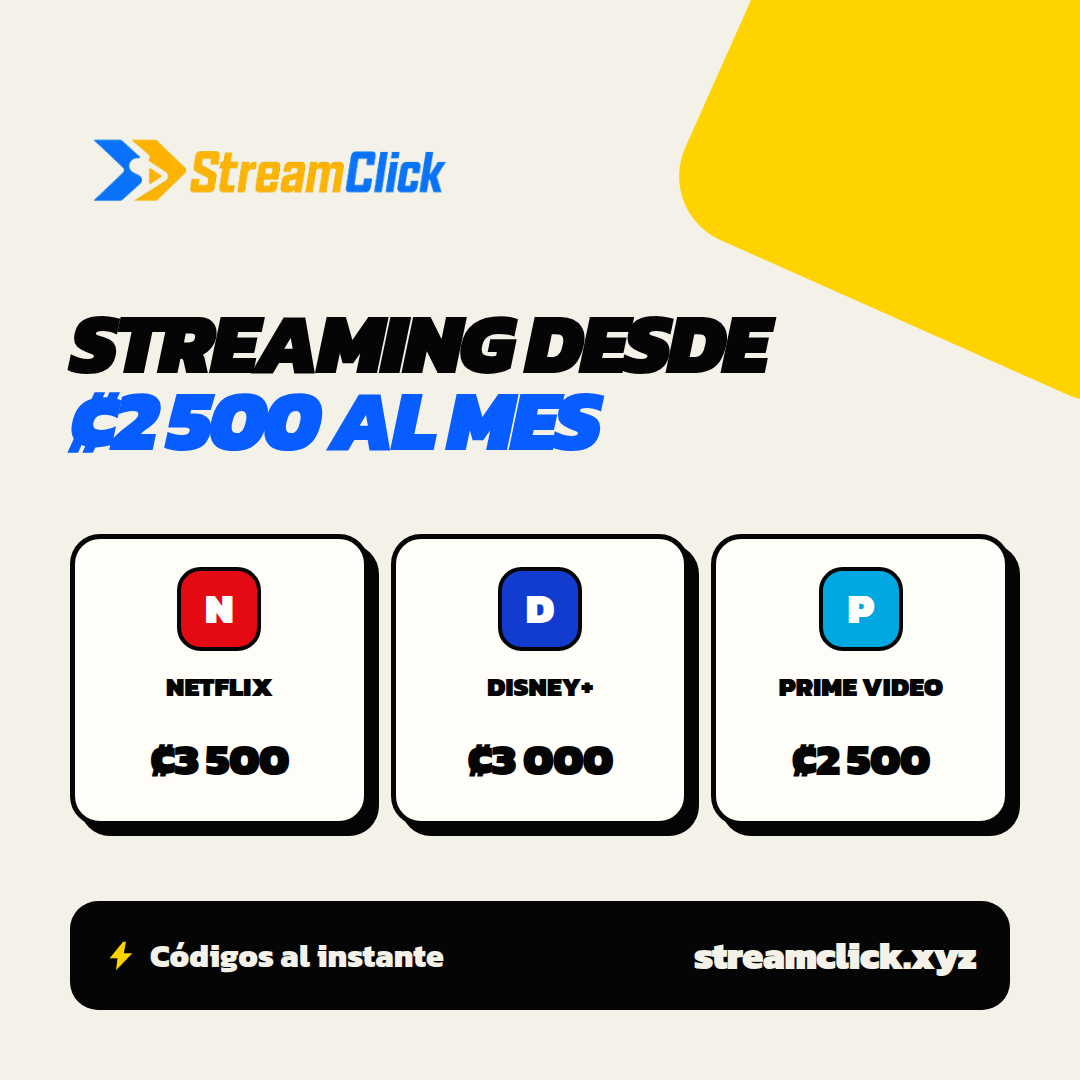
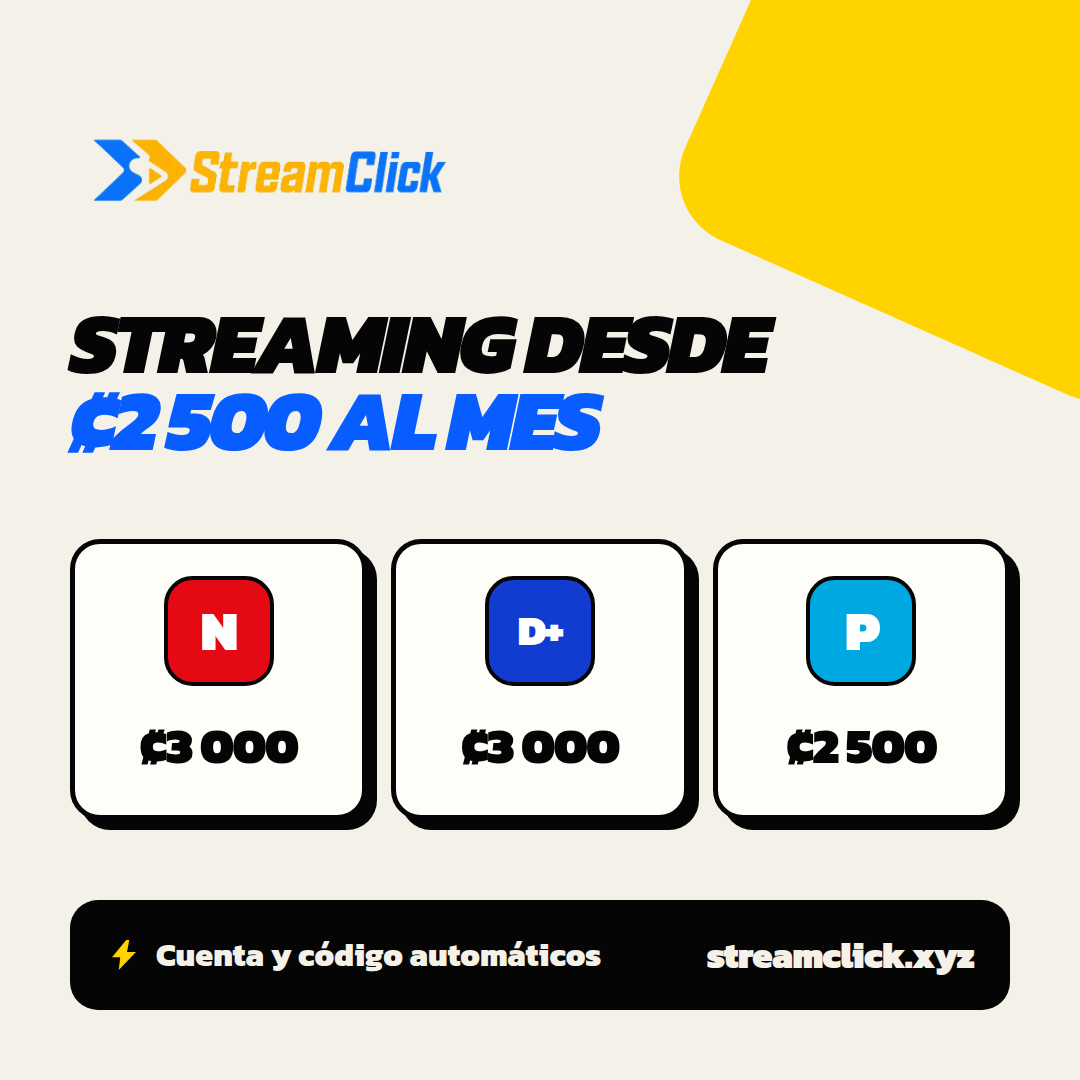
Quitar el nombre de la plataforma y bajar Netflix a ₡3 000
Las piezas ya no escriben «Netflix», «Disney+» ni «Prime Video»: sólo queda la
marca de color. Como esa marca pasa a cargar sola con la identificación, crece
—de 96 a 128 px en la lista de precios y de 220 a 300 px en las individuales— y
Disney usa «D+» en vez de una «D» suelta.

Netflix baja de ₡3 500 a ₡3 000, por decisión comercial. Queda al mismo precio
que Disney+.

El mensaje central pasa a ser «Cuenta y código automáticos», con «Sin esperar a
que alguien te conteste» debajo. Es lo que de verdad separa el producto de
cualquier otro revendedor: el precio solo mete en una guerra que no conviene
pelear. Las piezas individuales listan cuatro ventajas en vez de tres, abriendo
con la entrega automática.

Se añade la pieza de Prime Video, que faltaba.

Claude-Session: https://claude.ai/code/session_01EcAAU7YCVfFT7SDq6qNksh

Changed region(s): [[0.0611, 0.4889, 0.9472, 0.7944], [0.0917, 0.8556, 0.55, 0.9167], [0.6417, 0.8556, 0.8861, 0.9167]]

diff --git a/promo-imagenes/README.md b/promo-imagenes/README.md
@@ -10,12 +10,25 @@ streamclick.xyz.
 | `streamclick-estado-precios.png` | 1080×1920 | Estado de WhatsApp / historia con las tres plataformas |
 | `streamclick-estado-netflix.png` | 1080×1920 | Estado empujando una sola plataforma |
 | `streamclick-estado-disney.png` | 1080×1920 | Igual, con Disney+ |
+| `streamclick-estado-prime.png` | 1080×1920 | Igual, con Prime Video |
 | `streamclick-cuadrado.png` | 1080×1080 | Feed de Instagram o envío por chat |
+
+## Las piezas no llevan el nombre de la plataforma
+
+Sólo la marca de color. Es una decisión del operador y por eso la marca se
+agranda respecto a la primera versión: si no hay nombre escrito, la marca carga
+sola con la identificación. Disney lleva «D+» y no una «D» suelta por el mismo
+motivo.
+
+Conviene saber que el reconocimiento no es igual para las tres: un cuadro rojo
+con «N» se lee como Netflix al instante, pero «D+» y «P» dependen mucho más del
+color, sobre todo en una miniatura. Si alguna vez hay que elegir, el nombre
+ayuda más en Prime que en Netflix.
 
 ## Los precios están quemados en la imagen
 
 Salieron de `streaming_services.price_amount` en el momento de generarlas
-(₡3 500 / ₡3 000 / ₡2 500). **Si cambias un precio desde el panel, estas
+(₡3 000 / ₡3 000 / ₡2 500). **Si cambias un precio desde el panel, estas
 imágenes quedan desactualizadas**: no se regeneran solas. Hay que rehacerlas.
 
 ## Cómo se regeneran
